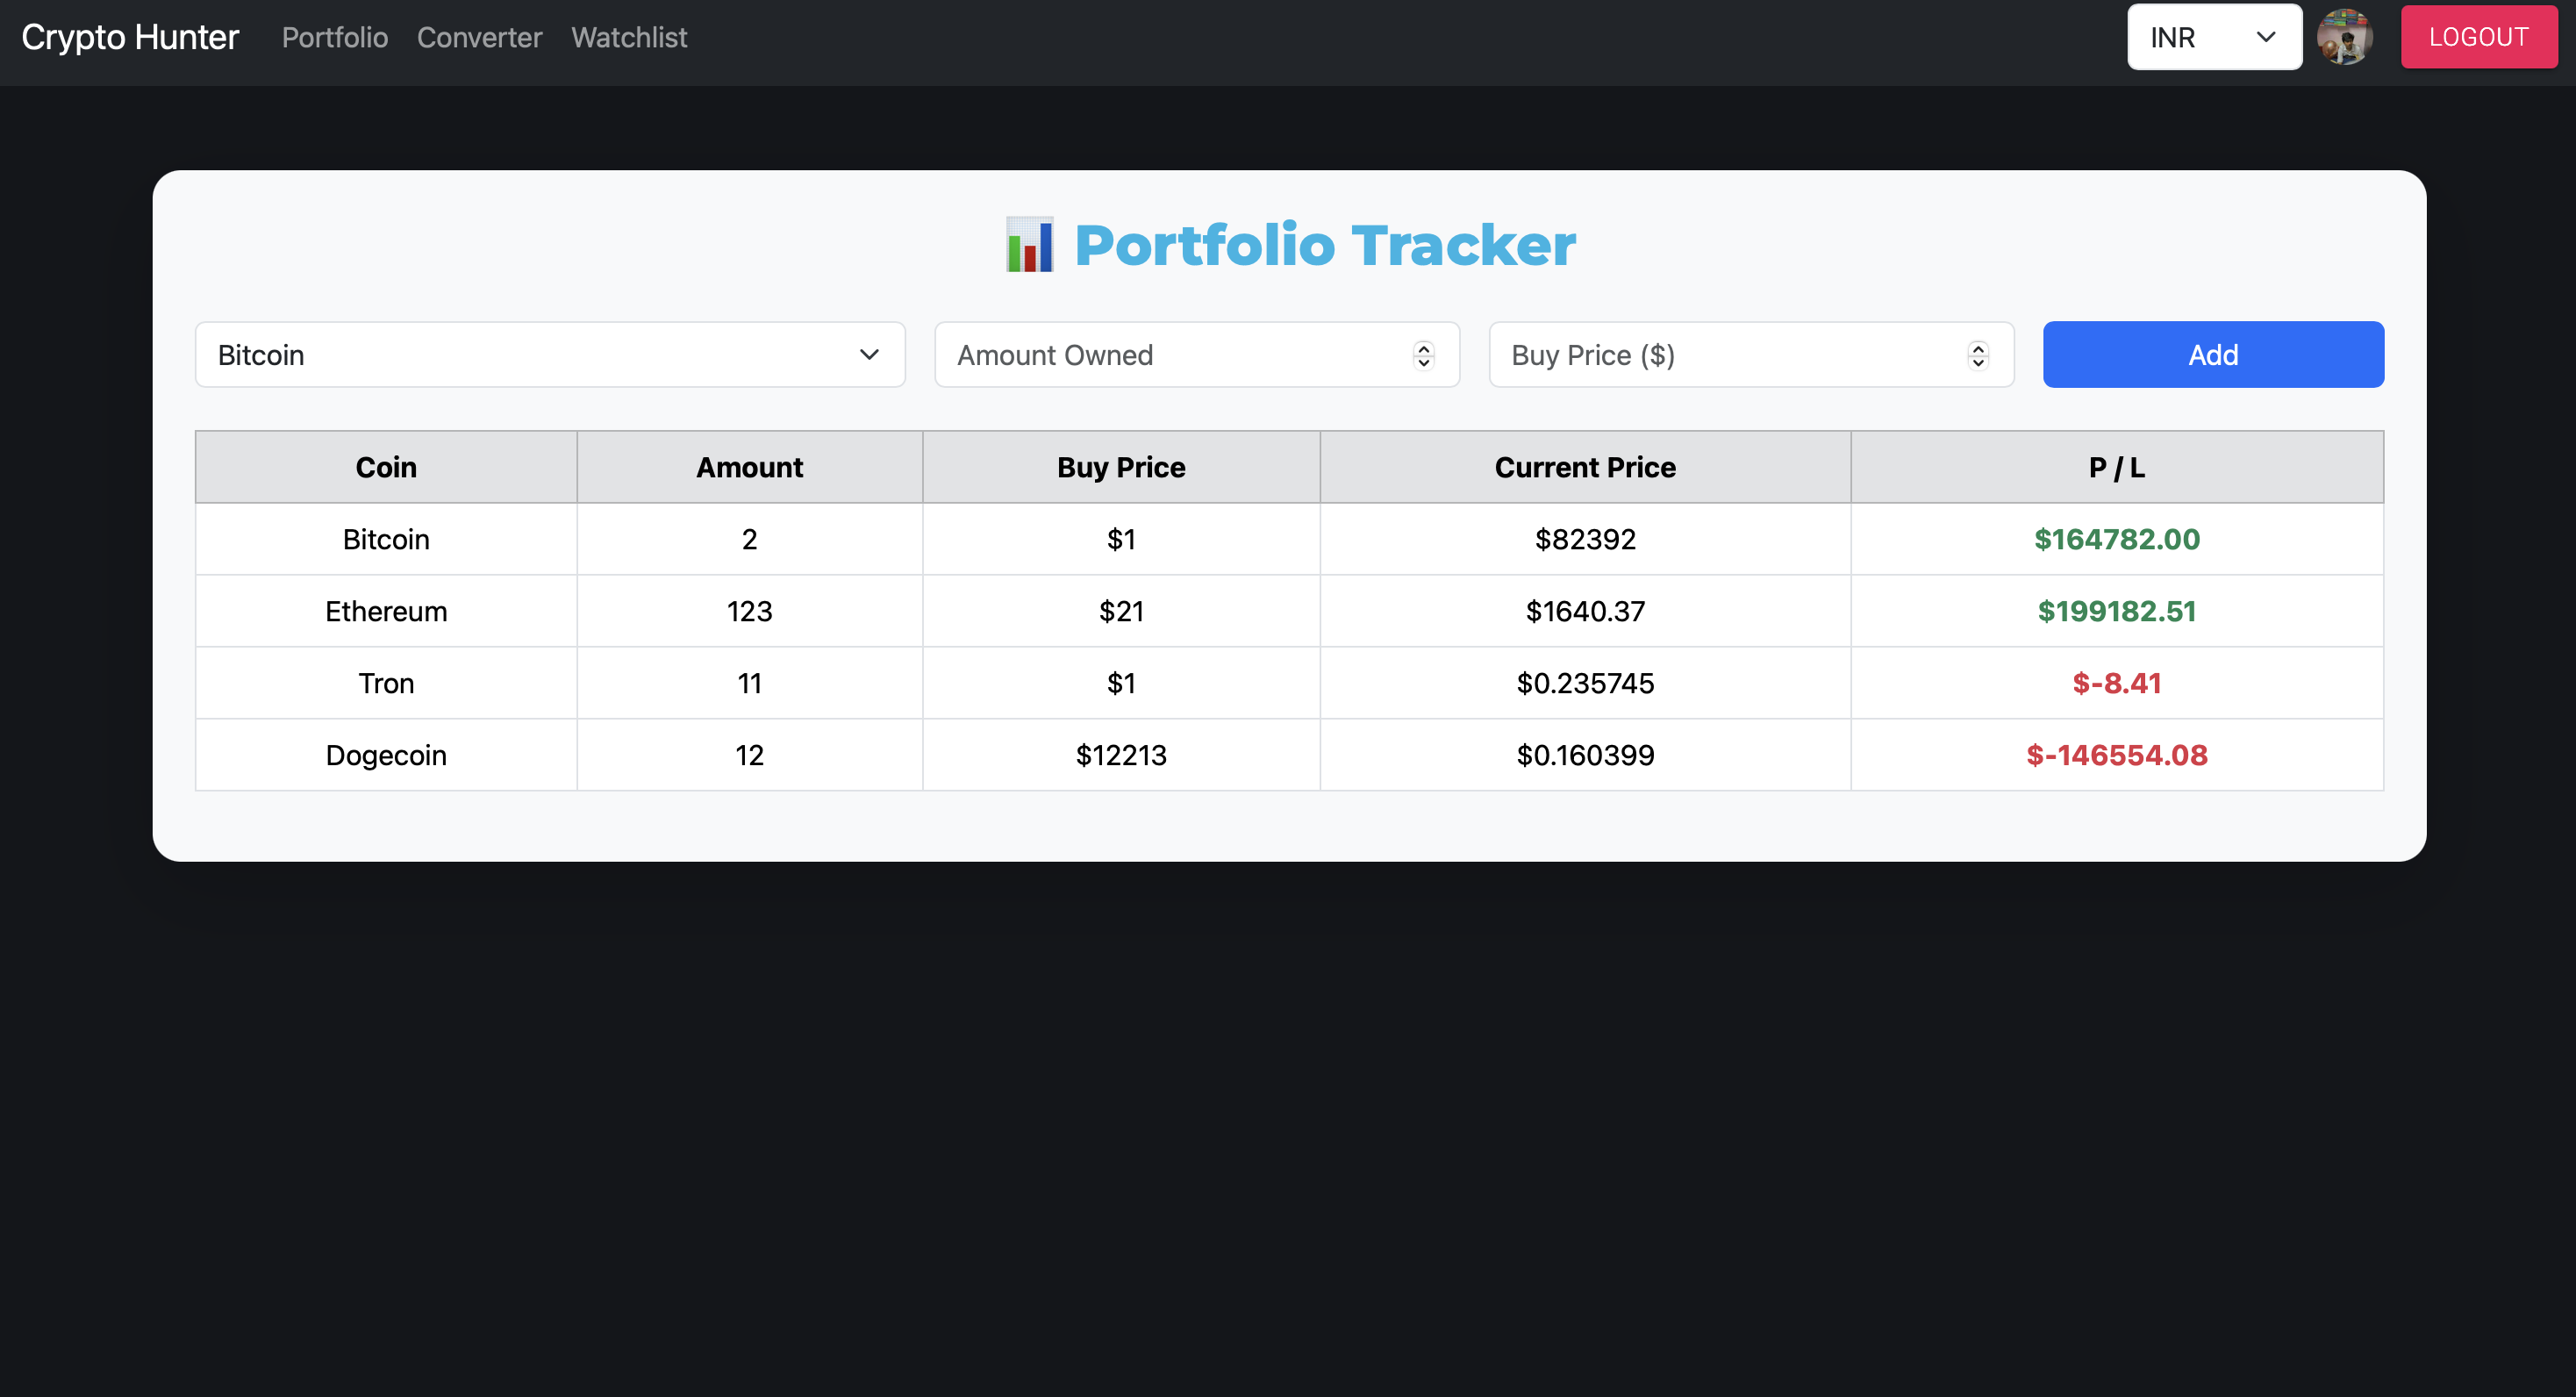
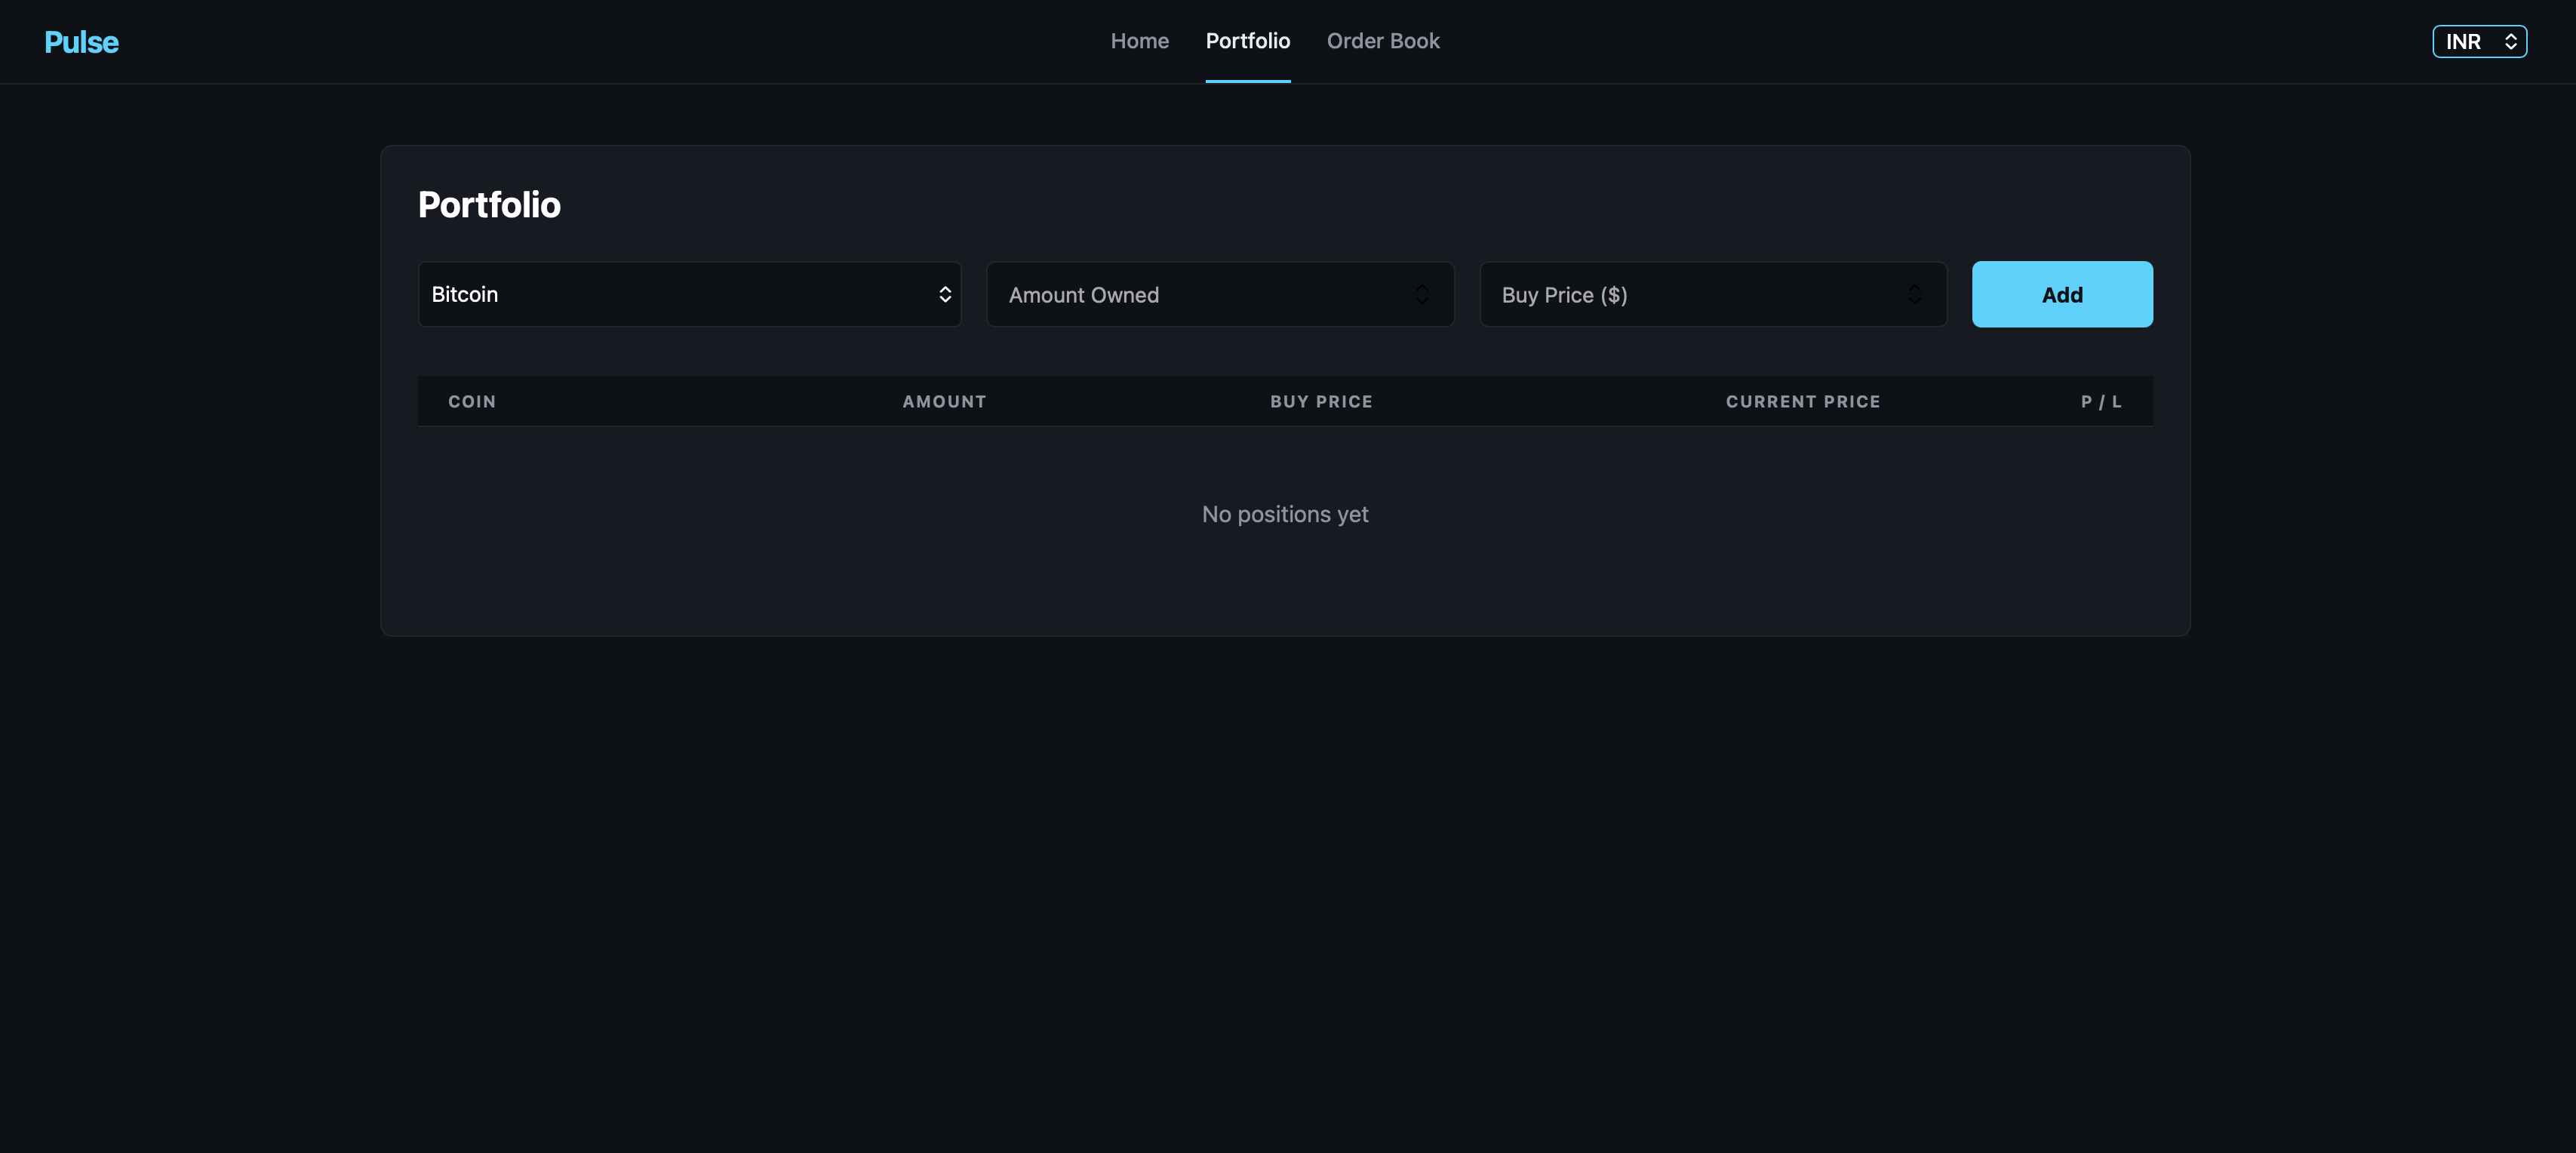
errors fixed

diff --git a/src/Pages/OrderBook.jsx b/src/Pages/OrderBook.jsx
@@ -1,8 +1,8 @@
 import React, { useState, useEffect, useRef } from 'react';
 import axios from 'axios';
 
-const API_BASE = process.env.REACT_APP_API_URL;
-const WS_URL = `${process.env.REACT_APP_WS_URL}/ws/orderbook`;
+const API_BASE = 'http://localhost:8000';
+const WS_URL = 'ws://localhost:8000/ws/orderbook';
 
 const OrderBook = () => {
   const [bids, setBids] = useState([]);

diff --git a/src/Pages/Home.js b/src/Pages/Home.js
@@ -9,7 +9,7 @@ const LiveTicker = () => {
 
   useEffect(() => {
     try {
-      const ws = new WebSocket(`${process.env.REACT_APP_WS_URL}/ws/orderbook`);
+      const ws = new WebSocket('ws://localhost:8000/ws/orderbook');
       wsRef.current = ws;
 
       ws.onopen = () => {

diff --git a/backend/binance_ws.py b/backend/binance_ws.py
@@ -4,9 +4,8 @@ import logging
 import time
 from datetime import datetime, timezone
 import websockets
-from redis_client import redis_client
-from db import insert_ohlcv
-import config
+from backend.redis_client import redis_client
+from backend.db import insert_ohlcv
 
 # Configure logging with timestamps
 logging.basicConfig(
@@ -15,21 +14,18 @@ logging.basicConfig(
 )
 logger = logging.getLogger("binance_ws")
 
-BINANCE_WS_URL = "wss://stream.binance.us:9443/ws/btcusdt@depth20@100ms"
+BINANCE_WS_URL = "wss://stream.binance.com/ws/btcusdt@depth20@100ms"
 SYMBOL = "BTCUSDT"
 
 async def run_binance_ws():
     # Keep OHLCV aggregations across reconnects
     ohlcv_prices = []
     ohlcv_volumes = []
-    last_publish_time = 0.0
     last_db_write_time = time.time()
+
     retry_count = 0
     base_delay = 1.0
     max_delay = 30.0
-
-    order_book_bids = {}
-    order_book_asks = {}
 
     while True:
         try:
@@ -40,51 +36,14 @@ async def run_binance_ws():
 
                 async for message in ws:
                     try:
-                        # If no clients are connected, sleep to save Upstash command quotas
-                        if config.active_connections == 0:
-                            await asyncio.sleep(1.0)
-                            continue
-
-                        timestamp_now = time.time()
-                        if timestamp_now - last_publish_time < 0.25:
-                            continue
-                        last_publish_time = timestamp_now
-
                         data = json.loads(message)
                         
-                        # Parse bids and asks
+                        # Parse and sort bids (descending) and asks (ascending)
                         raw_bids = data.get("bids", [])
                         raw_asks = data.get("asks", [])
                         
-                        # Update bids dictionary
-                        for p, q in raw_bids:
-                            price_val = float(p)
-                            qty_val = float(q)
-                            if qty_val == 0.0:
-                                order_book_bids.pop(price_val, None)
-                            else:
-                                order_book_bids[price_val] = qty_val
-
-                        # Update asks dictionary
-                        for p, q in raw_asks:
-                            price_val = float(p)
-                            qty_val = float(q)
-                            if qty_val == 0.0:
-                                order_book_asks.pop(price_val, None)
-                            else:
-                                order_book_asks[price_val] = qty_val
-
-                        # Keep only top 20 bids (highest price)
-                        sorted_bid_prices = sorted(order_book_bids.keys(), reverse=True)[:20]
-                        order_book_bids = {p: order_book_bids[p] for p in sorted_bid_prices}
-
-                        # Keep only top 20 asks (lowest price)
-                        sorted_ask_prices = sorted(order_book_asks.keys())[:20]
-                        order_book_asks = {p: order_book_asks[p] for p in sorted_ask_prices}
-
-                        # Convert back to sorted lists for the payload
-                        bids = [[p, order_book_bids[p]] for p in sorted_bid_prices]
-                        asks = [[p, order_book_asks[p]] for p in sorted_ask_prices]
+                        bids = sorted([[float(p), float(q)] for p, q in raw_bids], key=lambda x: x[0], reverse=True)
+                        asks = sorted([[float(p), float(q)] for p, q in raw_asks], key=lambda x: x[0])
                         
                         if not bids or not asks:
                             continue
@@ -108,10 +67,6 @@ async def run_binance_ws():
                         # Record metrics for OHLCV database insertion
                         ohlcv_prices.append(mid_price)
                         ohlcv_volumes.append(bid_vol_sum + ask_vol_sum)
-                        # Cap to last 300 entries max (covers 60s at 4 updates/sec with buffer)
-                        if len(ohlcv_prices) > 300:
-                            ohlcv_prices = ohlcv_prices[-300:]
-                            ohlcv_volumes = ohlcv_volumes[-300:]
                         
                         # Payload preparation
                         timestamp_now = time.time()
@@ -149,17 +104,12 @@ async def run_binance_ws():
                                 
                                 db_timestamp = datetime.now(timezone.utc)
                                 try:
-                                    await asyncio.wait_for(
-                                        insert_ohlcv(SYMBOL, db_timestamp, open_px, high_px, low_px, close_px, avg_volume),
-                                        timeout=5.0
-                                    )
+                                    await insert_ohlcv(SYMBOL, db_timestamp, open_px, high_px, low_px, close_px, avg_volume)
                                     logger.info(f"Inserted OHLCV: Open={open_px:.2f}, High={high_px:.2f}, Low={low_px:.2f}, Close={close_px:.2f}, Vol={avg_volume:.2f}")
-                                except asyncio.TimeoutError:
-                                    logger.error("Timeout inserting OHLCV to DB (5.0s limit reached)")
                                 except Exception as e:
                                     logger.error(f"Error inserting OHLCV to DB: {e}")
                                     
-                            # Always reset — move these OUTSIDE the if ohlcv_prices block
+                            # Reset aggregation buffers
                             ohlcv_prices.clear()
                             ohlcv_volumes.clear()
                             last_db_write_time = timestamp_now

diff --git a/backend/main.py b/backend/main.py
@@ -5,9 +5,9 @@ import time
 from contextlib import asynccontextmanager
 from fastapi import FastAPI, WebSocket, WebSocketDisconnect
 from fastapi.middleware.cors import CORSMiddleware
-from db import init_db, close_db, get_ohlcv
-from binance_ws import run_binance_ws
-from redis_client import redis_client, get_pubsub
+from backend.db import init_db, close_db, get_ohlcv
+from backend.binance_ws import run_binance_ws
+from backend.redis_client import redis_client
 
 logging.basicConfig(level=logging.INFO)
 logger = logging.getLogger("main")
@@ -32,27 +32,12 @@ async def lifespan(app: FastAPI):
     
     await close_db()
 
-# Required environment variables:
-# REDIS_URL — Upstash Redis URL with rediss:// prefix (TLS)
-# FRONTEND_URL — Vercel frontend URL (optional, for CORS)
-
-import config
-
 app = FastAPI(lifespan=lifespan)
-
-origins = [
-    "http://localhost:3000",
-    "https://pulse-frontend.vercel.app",
-    "https://pulse-blue-nine.vercel.app",
-]
-if config.FRONTEND_URL:
-    origins.append(config.FRONTEND_URL)
 
 # Allow CORS for React frontend
 app.add_middleware(
     CORSMiddleware,
-    allow_origins=origins,
-    allow_origin_regex="https://.*\\.vercel\\.app",
+    allow_origins=["http://localhost:3000", "http://127.0.0.1:3000"],
     allow_credentials=True,
     allow_methods=["*"],
     allow_headers=["*"],
@@ -70,40 +55,31 @@ async def get_orderbook():
         return json.loads(snapshot)
     return {"symbol": "BTCUSDT", "bids": [], "asks": [], "metrics": {}}
 
-active_connections = 0
-MAX_CONNECTIONS = 10
-
 @app.websocket("/ws/orderbook")
 async def websocket_orderbook(websocket: WebSocket):
-    global active_connections
-    if active_connections >= MAX_CONNECTIONS:
-        await websocket.close(code=1008)
-        return
-    active_connections += 1
-    config.active_connections = active_connections
     await websocket.accept()
-    pubsub = await get_pubsub()
+    logger.info("New WebSocket client connected to /ws/orderbook.")
+    
+    pubsub = redis_client.pubsub()
     await pubsub.subscribe("orderbook_updates")
+    
     try:
-        async for message in pubsub.listen():
-            if message["type"] == "message":
+        while True:
+            message = await pubsub.get_message(ignore_subscribe_messages=True, timeout=1.0)
+            if message:
+                payload_str = message["data"]
                 try:
-                    await websocket.send_text(message["data"])
-                except Exception:
+                    await websocket.send_text(payload_str)
+                except Exception as e:
+                    logger.error(f"Error forwarding message to client: {e}")
                     break
-    except Exception as e:
-        logger.error(f"WS client error: {e}")
+            await asyncio.sleep(0.01)  # Cooperatively yield control
+            
+    except WebSocketDisconnect:
+        logger.info("WebSocket client disconnected from /ws/orderbook.")
     finally:
-        active_connections -= 1
-        config.active_connections = active_connections
-        try:
-            await pubsub.unsubscribe("orderbook_updates")
-            await pubsub.aclose()
-            if hasattr(pubsub, "_redis_client"):
-                await pubsub._redis_client.aclose()
-        except Exception:
-            pass
-
+        await pubsub.unsubscribe("orderbook_updates")
+        await pubsub.close()
 
 # Keep the original endpoint for backwards compatibility
 @app.websocket("/ws/orderbook/BTCUSDT")

diff --git a/backend/redis_client.py b/backend/redis_client.py
@@ -1,30 +1,10 @@
+import os
 import redis.asyncio as aioredis
-from config import REDIS_URL
 
-active_redis_url = REDIS_URL or "redis://localhost:6379/0"
+REDIS_URL = os.getenv("REDIS_URL", "redis://localhost:6379/0")
 
-def _make_client():
-    if active_redis_url.startswith("rediss://"):
-        return aioredis.from_url(
-            active_redis_url,
-            encoding="utf-8",
-            decode_responses=True,
-            ssl=True,
-            ssl_cert_reqs=None
-        )
-    return aioredis.from_url(
-        active_redis_url,
-        encoding="utf-8",
-        decode_responses=True
-    )
+# Async Redis client instance
+redis_client = aioredis.from_url(REDIS_URL, decode_responses=True)
 
-# Main client for get/set/publish
-redis_client = _make_client()
-
-async def get_pubsub():
-    client = _make_client()
-    pubsub = client.pubsub()
-    pubsub._redis_client = client  # prevents garbage collection
-    return pubsub
-
-
+async def get_redis_client():
+    return redis_client